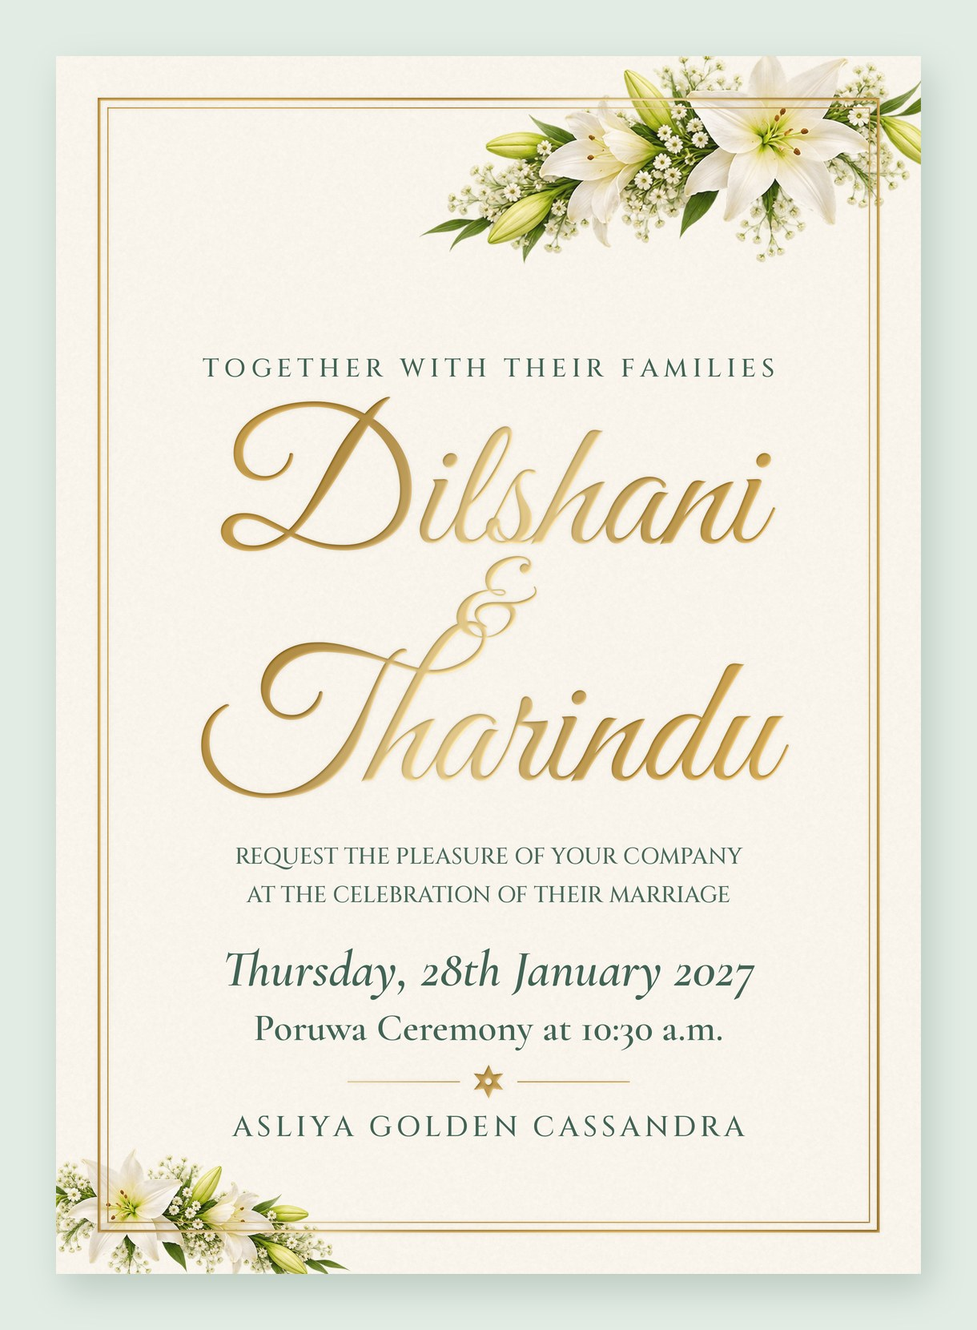
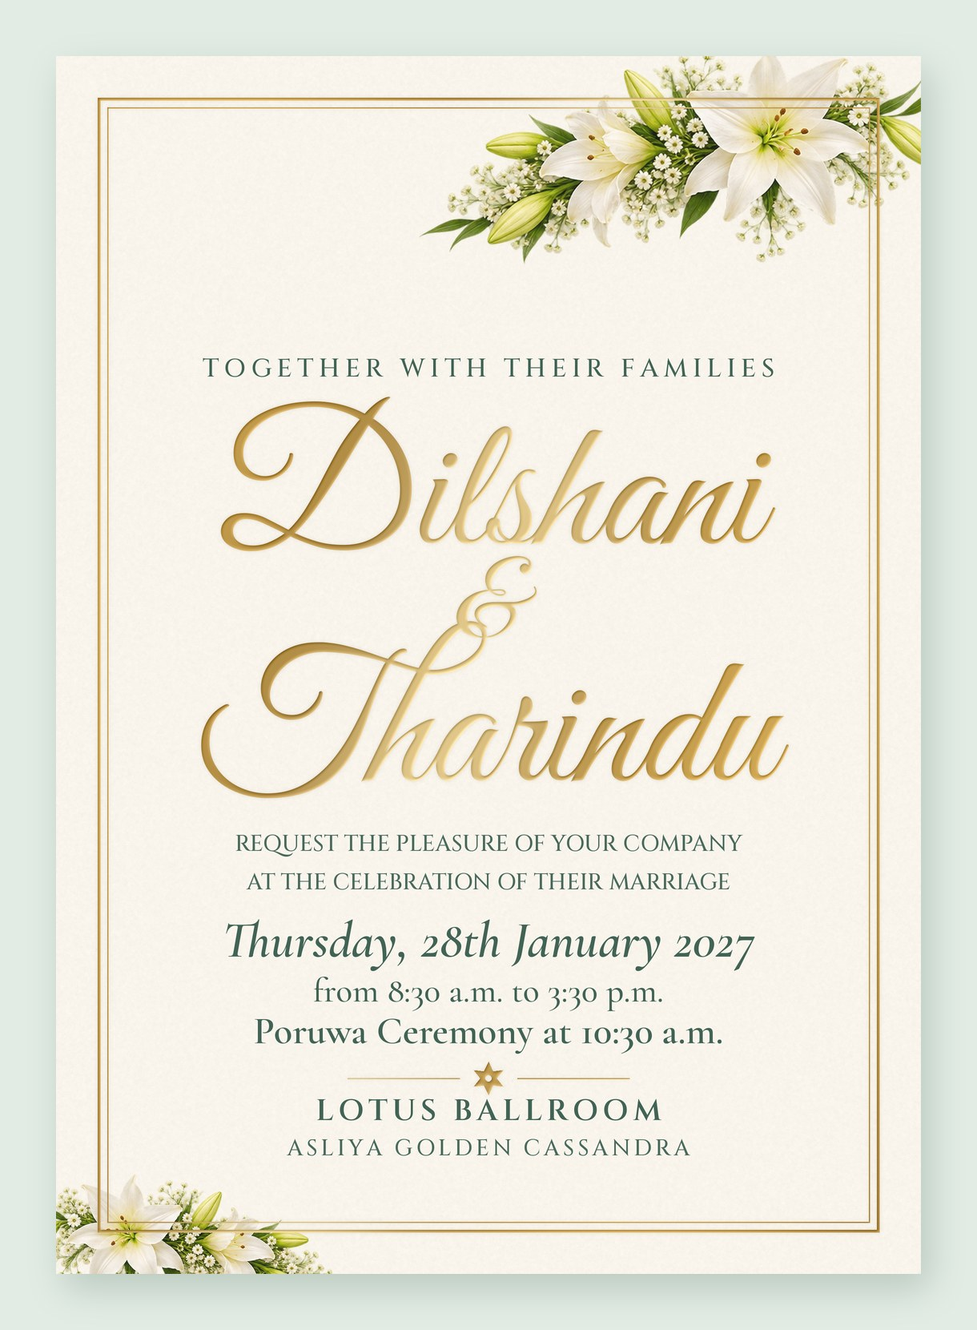
Show the wedding hours and the Lotus Ballroom, and stop sideways scrolling
- 8:30 a.m. to 3:30 p.m. with the Poruwa ceremony at 10:30 a.m., and the
  Lotus Ballroom at Asliya Golden Cassandra, highlighted on the first page,
  the ceremony card and the venue; a bigger date under Save the Date
- Calendar event, reply and share messages, the copied address and the
  keepsake card carry the new hours and the ballroom
- The page is exactly as wide as a phone screen: flowers that reached past
  the edges are clipped and sideways panning is locked, so every section
  stays centred

Claude-Session: https://claude.ai/code/session_01Wd3LywuX5h88iaji7pPKSy

Changed region(s): [[0.218, 0.6145, 0.7787, 0.8602], [0.0311, 0.8602, 0.3426, 0.9831]]

diff --git a/index.html b/index.html
@@ -4,9 +4,9 @@
 <meta charset="utf-8">
 <meta name="viewport" content="width=device-width, initial-scale=1, viewport-fit=cover">
 <meta name="theme-color" content="#eef5ee">
-<meta name="description" content="You are invited to the wedding of Dilshani & Tharindu - Thursday, 28 January 2027, Asliya Golden Cassandra.">
+<meta name="description" content="You are invited to the wedding of Dilshani & Tharindu - Thursday, 28 January 2027, 8:30 a.m. to 3:30 p.m., Lotus Ballroom, Asliya Golden Cassandra.">
 <meta property="og:title" content="The Wedding of Dilshani & Tharindu">
-<meta property="og:description" content="Poruwa Ceremony - Thursday, 28 January 2027 at 10:30 a.m. - Asliya Golden Cassandra">
+<meta property="og:description" content="Thursday, 28 January 2027 · 8:30 a.m. - 3:30 p.m. · Poruwa ceremony at 10:30 a.m. · Lotus Ballroom, Asliya Golden Cassandra">
 <meta property="og:type" content="website">
 <meta property="og:image" content="https://dilshanitharindu.github.io/dilshanitharindu/og.jpg">
 <meta property="og:image:width" content="1200">
@@ -150,7 +150,8 @@ section { position: relative; text-align: center; display: grid; justify-items: 
 .mono text { opacity: 0; transition: opacity 1s ease 1.2s }
 .show .mono .ring { stroke-dashoffset: 0 } .show .mono text { opacity: 1 }
 .hero .bless { font-style: italic; color: var(--jade); font-size: 20px; margin: 0; text-wrap: balance }
-@media (max-width: 380px) { .eyebrow { font-size: 11px; letter-spacing: .2em } .hero .bless { font-size: 18px } }
+@media (max-width: 380px) { .eyebrow { font-size: 11px; letter-spacing: .2em } .hero .bless { font-size: 18px }
+}
 .hero .names { display: grid; justify-items: center; font-size: clamp(64px, 19vw, 92px); margin: 4px 0 }
 .hero .names .amp { font-size: .6em; line-height: .8; margin: -4px 0 }
 .hero .names .of { display: block; font-family: var(--caps); font-weight: 500; font-size: 11px; letter-spacing: .28em; line-height: 1.5; text-transform: uppercase; color: var(--gold); margin: 4px 0 12px }
@@ -186,6 +187,31 @@ section { position: relative; text-align: center; display: grid; justify-items: 
 .frame .bw.tl { left: -74px; top: -104px; width: 56%; --o: 0 0; z-index: 2 } .frame .bw.br { right: -72px; bottom: -100px; width: 56%; --o: 100% 100%; --from: 0 16px; --bd: .5s; z-index: 2 }
 .frame h3 { font-family: var(--caps); font-weight: 600; font-size: 18px; letter-spacing: .16em; color: var(--jade); margin: 6px 0 4px; text-transform: uppercase }
 .row { display: grid; grid-template-columns: 34px 1fr; gap: 12px; align-items: center; text-align: left; width: 100%; max-width: 300px }
+/* highlighted date / time / venue */
+.hl { display: grid; justify-items: center; gap: 2px; width: 100%; max-width: 330px; padding: 14px 14px 16px; border-radius: 14px; text-align: center;
+  background: linear-gradient(180deg, rgba(234,244,237,.95), rgba(255,253,246,.85)); box-shadow: inset 0 0 0 1px rgba(111,158,134,.42), 0 12px 24px -22px rgba(29,56,46,.8) }
+.hl svg { width: 30px; height: 30px; color: var(--gold); margin-bottom: 2px }
+.hl svg .ic { stroke-dasharray: 1; stroke-dashoffset: 1; transition: stroke-dashoffset 1.4s ease var(--d, 0s) }
+.show .hl svg .ic { stroke-dashoffset: 0 }
+.hl > b { font-family: var(--caps); font-weight: 600; font-size: 10px; letter-spacing: .28em; padding-left: .28em; color: var(--celadon-deep); text-transform: uppercase }
+.hl strong { font-family: var(--display); font-weight: 600; font-size: clamp(20px, 6vw, 24px); line-height: 1.25; color: var(--jade); font-variant-numeric: lining-nums }
+.hl > span { font-style: italic; font-size: 18px; color: var(--ink) }
+.poruwa { display: inline-flex; flex-wrap: wrap; justify-content: center; align-items: baseline; gap: 4px 10px; margin: 8px 0 0; padding: 7px 16px; border-radius: 999px;
+  background: linear-gradient(135deg, #fff7e2, #f4e5c0); box-shadow: inset 0 0 0 1px rgba(176,138,56,.6), 0 8px 16px -12px rgba(169,132,50,.9);
+  font-family: var(--caps); font-weight: 600; font-size: 10.5px; letter-spacing: .2em; text-transform: uppercase; color: var(--jade) }
+.poruwa b { font-family: var(--display); font-weight: 700; font-size: 20px; letter-spacing: 0; text-transform: none; color: #8a6a22; font-variant-numeric: lining-nums }
+.hero-when { display: grid; justify-items: center; gap: 6px; width: 100%; max-width: 330px; margin-top: 12px; padding: 14px 14px 16px; border-radius: 16px;
+  background: linear-gradient(180deg, rgba(255,253,246,.94), rgba(236,245,238,.94)); box-shadow: inset 0 0 0 1px rgba(176,138,56,.45), 0 16px 30px -24px rgba(29,56,46,.6) }
+.hw-time { margin: 0; font-family: var(--display); font-weight: 600; font-size: 24px; line-height: 1.2; color: var(--jade); font-variant-numeric: lining-nums }
+.hw-time small { display: block; font-family: var(--caps); font-weight: 600; font-size: 10px; letter-spacing: .28em; padding-left: .28em; color: var(--celadon-deep); text-transform: uppercase }
+.hero-when .poruwa { margin: 2px 0 4px }
+.hw-venue { margin: 0; display: grid; justify-items: center; gap: 1px; font-style: italic; font-size: 17px; color: var(--ink) }
+.hw-venue b { font-style: normal; font-family: var(--caps); font-weight: 600; font-size: 13px; letter-spacing: .2em; padding-left: .2em; color: var(--jade); text-transform: uppercase }
+.date-line { margin: 2px 0 6px; font-family: var(--display); font-weight: 600; font-size: clamp(25px, 7.6vw, 32px); line-height: 1.2; color: var(--jade); text-wrap: balance }
+.venue-card { display: grid; justify-items: center; gap: 2px; width: 100%; max-width: 340px; padding: 16px 16px 18px; border-radius: 16px; text-align: center;
+  background: linear-gradient(180deg, rgba(255,253,246,.95), rgba(236,245,238,.95)); box-shadow: inset 0 0 0 1px rgba(176,138,56,.5), 0 16px 30px -24px rgba(29,56,46,.6) }
+.venue-card > b { font-family: var(--caps); font-weight: 600; font-size: 10px; letter-spacing: .28em; padding-left: .28em; color: var(--celadon-deep); text-transform: uppercase }
+.venue-hall { margin: 0; font-family: var(--script); font-size: clamp(40px, 11.5vw, 50px); line-height: 1.15; color: var(--jade); padding: 0 .2em }
 .row svg { width: 34px; height: 34px; color: var(--gold) }
 .row svg .ic { stroke-dasharray: 1; stroke-dashoffset: 1; transition: stroke-dashoffset 1.4s ease var(--d, 0s) }
 .show .row svg .ic { stroke-dashoffset: 0 }
@@ -198,7 +224,7 @@ section { position: relative; text-align: center; display: grid; justify-items: 
 .wreath-wrap .bw.tl { left: -42%; top: -30%; width: 78%; --o: 0 0; z-index: 1 }
 .wreath-wrap { margin-bottom: 34px }
 .wreath-wrap .bw.swag { left: -27%; bottom: -27%; width: 154%; --o: 50% 100%; --from: 0 14px; --amp: .6deg; --bd: .5s; z-index: 2 }
-.venue-addr { font-family: var(--caps); font-size: 10.5px; letter-spacing: .24em; text-transform: uppercase; color: var(--muted); margin: -6px 0 2px }
+.venue-addr { font-family: var(--caps); font-size: 10px; letter-spacing: .2em; text-transform: uppercase; color: var(--muted); margin: 2px 0 0 }
 .wreath-wrap .bloom { position: absolute; width: 22%; height: auto; opacity: 0; scale: .4; rotate: -40deg; transition: opacity 1s ease, scale 1.2s cubic-bezier(.3,1.5,.5,1), rotate 1.4s ease; transition-delay: var(--bd) }
 .show .wreath-wrap .bloom { opacity: 1; scale: 1; rotate: 0deg }
 .wreath-wrap .map { position: absolute; inset: 11.4%; border-radius: 50%; display: block; -webkit-tap-highlight-color: transparent;
@@ -210,7 +236,7 @@ section { position: relative; text-align: center; display: grid; justify-items: 
 @keyframes ping { 0% { scale: .25; opacity: .9 } 80%, 100% { scale: 1.7; opacity: 0 } }
 .wreath-wrap .map:active { scale: .98 }
 .map-credit { font-family: var(--caps); font-size: 8.5px; letter-spacing: .2em; text-transform: uppercase; color: var(--muted); opacity: .75; margin: -8px 0 0 }
-.venue-name { font-family: var(--display); font-weight: 600; font-size: 28px; color: var(--jade); margin: 0 }
+.venue-name { font-family: var(--display); font-weight: 600; font-size: clamp(22px, 6.4vw, 26px); color: var(--jade); margin: 0 }
 
 /* animated buttons */
 .btn { position: relative; overflow: hidden; isolation: isolate; display: inline-flex; align-items: center; justify-content: center; gap: 10px; padding: 14px 26px; border-radius: 999px; cursor: pointer; text-decoration: none;
@@ -281,7 +307,12 @@ section { position: relative; text-align: center; display: grid; justify-items: 
 .cal-alt a { color: var(--jade); text-underline-offset: 3px }
 
 /* ---- light the lamp ---- */
-body { overflow-x: hidden } @supports (overflow: clip) { body { overflow-x: clip } }
+/* no sideways scrolling on phones: the page is exactly as wide as the screen and decorations are clipped at its edges */
+html, body { max-width: 100%; overflow-x: hidden; overscroll-behavior-x: none }
+@supports (overflow: clip) { html, body { overflow-x: clip } }
+.page { position: relative; width: 100%; overflow-x: hidden }
+@supports (overflow: clip) { .page { overflow-x: clip } }
+html { touch-action: pan-y pinch-zoom }
 #lamp::before { content: ""; position: absolute; left: 50%; top: 58%; width: min(100vw, 900px); aspect-ratio: 1; translate: -50% -50%; border-radius: 50%; pointer-events: none; z-index: -1;
   background: radial-gradient(closest-side, rgba(255,214,150,.5), rgba(255,206,140,.18) 46%, rgba(255,206,140,0) 72%); opacity: var(--lit, 0); transition: opacity 1.4s ease }
 .lamp-stage { display: block; padding: 0; border: 0; background: none; font: inherit; color: inherit; -webkit-appearance: none; appearance: none; position: relative; width: min(66vw, 280px); aspect-ratio: 720 / 1358; margin: 0 0 34px; cursor: pointer; outline: none; -webkit-tap-highlight-color: transparent; touch-action: manipulation }
@@ -336,6 +367,12 @@ body { overflow-x: hidden } @supports (overflow: clip) { body { overflow-x: clip
 .lamp-flowers { position: absolute; left: -34%; right: -34%; bottom: -10%; z-index: 2; pointer-events: none }
 .lamp-stage .lamp-flowers img { position: static; display: block; width: 100%; height: auto; inset: auto }
 
+/* small phones: a little more room inside the cards so the Poruwa time stays on one line */
+@media (max-width: 380px) {
+  .poruwa { letter-spacing: .12em; padding: 7px 12px; gap: 4px 8px } .poruwa b { font-size: 18px }
+  .frame { padding-left: 14px; padding-right: 14px } .hl { padding-left: 8px; padding-right: 8px }
+}
+
 @media (prefers-reduced-motion: reduce) {
   html { scroll-behavior: auto }
   *, *::before, *::after { animation: none !important; transition: none !important }
@@ -365,6 +402,7 @@ body { overflow-x: hidden } @supports (overflow: clip) { body { overflow-x: clip
 
 </div>
 
+<div class="page">
 <main>
   <section class="hero reveal" id="top">
     <div class="bw garland" aria-hidden="true"><img src="assets/lily_garland.webp" data-img="garland" decoding="async" alt=""></div>
@@ -377,6 +415,11 @@ body { overflow-x: hidden } @supports (overflow: clip) { body { overflow-x: clip
     <p class="lede ln">request the honour of your presence as they begin their life together</p>
     <div class="datebar ln" aria-label="Thursday 28 January 2027"><span>Thursday</span><strong>28</strong><span>January</span></div>
     <p class="yr ln">2027</p>
+    <div class="hero-when ln">
+      <p class="hw-time"><small>From</small>8:30 a.m. &ndash; 3:30 p.m.</p>
+      <p class="poruwa">Poruwa Ceremony <b>10:30 a.m.</b></p>
+      <p class="hw-venue"><b>Lotus Ballroom</b>Asliya Golden Cassandra</p>
+    </div>
     <a class="cue ln" href="#date">Scroll<i></i></a>
     <div class="bw bl" aria-hidden="true"><img src="assets/lily_corner_bl.webp" data-img="cbl" loading="lazy" decoding="async" alt=""></div><div class="bw br" aria-hidden="true"><img src="assets/lily_corner_br.webp" data-img="cbr" loading="lazy" decoding="async" alt=""></div>
   </section>
@@ -385,7 +428,7 @@ body { overflow-x: hidden } @supports (overflow: clip) { body { overflow-x: clip
     <div class="blossom-rule ln" aria-hidden="true"><img src="assets/lily_small.webp" data-img="small" decoding="async" alt=""></div>
     <p class="eyebrow ln">The big day</p>
     <h2 class="script-h ln">Save the Date</h2>
-    <p class="lede ln">Thursday, 28th January 2027</p>
+    <p class="date-line ln">Thursday, 28th January 2027</p>
     <div class="countdown ln" role="timer" aria-live="off">
       <div><strong id="cdD">--</strong><small>Days</small></div>
       <div><strong id="cdH">--</strong><small>Hours</small></div>
@@ -401,11 +444,10 @@ body { overflow-x: hidden } @supports (overflow: clip) { body { overflow-x: clip
       <div class="bw br" aria-hidden="true"><img src="assets/lily_corner_br.webp" data-img="cbr" loading="lazy" decoding="async" alt=""></div>
       <p class="eyebrow ln">Celebrate with us</p>
       <h2 class="script-h ln">The Ceremony</h2>
-      <h3 class="ln">Poruwa Ceremony</h3>
-      <div class="row ln"><svg viewBox="0 0 34 34" fill="none" stroke="currentColor" stroke-width="1.4" stroke-linecap="round" aria-hidden="true"><path class="ic" pathLength="1" d="M6 9h22v19H6zM6 14h22M12 5v6M22 5v6"/><path class="ic" pathLength="1" style="--d:.4s" d="M12 19h2M16 19h2M20 19h2M12 23h2M16 23h2"/></svg><div><b>Date</b><span>Thursday, 28 January 2027</span></div></div>
-      <div class="row ln"><svg viewBox="0 0 34 34" fill="none" stroke="currentColor" stroke-width="1.4" stroke-linecap="round" aria-hidden="true"><circle class="ic" pathLength="1" cx="17" cy="17" r="11.5"/><path class="ic" pathLength="1" style="--d:.5s" d="M17 10v7l5 3"/></svg><div><b>Auspicious time</b><span>10:30 in the morning</span></div></div>
-      <div class="row ln"><svg viewBox="0 0 34 34" fill="none" stroke="currentColor" stroke-width="1.4" stroke-linecap="round" aria-hidden="true"><path class="ic" pathLength="1" d="M17 30s-9-8.5-9-15a9 9 0 0 1 18 0c0 6.5-9 15-9 15z"/><circle class="ic" pathLength="1" style="--d:.5s" cx="17" cy="15" r="3.2"/></svg><div><b>Venue</b><span>Asliya Golden Cassandra</span></div></div>
-      <div class="row ln" id="dressRow" hidden><svg viewBox="0 0 34 34" fill="none" stroke="currentColor" stroke-width="1.4" stroke-linecap="round" aria-hidden="true"><path class="ic" pathLength="1" d="M12 5l5 4 5-4 7 5-4 5v14H9V15l-4-5z"/></svg><div><b>Dress code</b><span id="dressCode"></span></div></div>
+      <div class="hl ln"><svg viewBox="0 0 34 34" fill="none" stroke="currentColor" stroke-width="1.4" stroke-linecap="round" aria-hidden="true"><path class="ic" pathLength="1" d="M6 9h22v19H6zM6 14h22M12 5v6M22 5v6"/><path class="ic" pathLength="1" style="--d:.4s" d="M12 19h2M16 19h2M20 19h2M12 23h2M16 23h2"/></svg><b>Date</b><strong>Thursday, 28 January 2027</strong></div>
+      <div class="hl ln"><svg viewBox="0 0 34 34" fill="none" stroke="currentColor" stroke-width="1.4" stroke-linecap="round" aria-hidden="true"><circle class="ic" pathLength="1" cx="17" cy="17" r="11.5"/><path class="ic" pathLength="1" style="--d:.5s" d="M17 10v7l5 3"/></svg><b>Time</b><strong>8:30 a.m. &ndash; 3:30 p.m.</strong><p class="poruwa">Poruwa Ceremony <b>10:30 a.m.</b></p></div>
+      <div class="hl ln"><svg viewBox="0 0 34 34" fill="none" stroke="currentColor" stroke-width="1.4" stroke-linecap="round" aria-hidden="true"><path class="ic" pathLength="1" d="M17 30s-9-8.5-9-15a9 9 0 0 1 18 0c0 6.5-9 15-9 15z"/><circle class="ic" pathLength="1" style="--d:.5s" cx="17" cy="15" r="3.2"/></svg><b>Venue</b><strong>Lotus Ballroom</strong><span>Asliya Golden Cassandra</span></div>
+      <div class="hl ln" id="dressRow" hidden><svg viewBox="0 0 34 34" fill="none" stroke="currentColor" stroke-width="1.4" stroke-linecap="round" aria-hidden="true"><path class="ic" pathLength="1" d="M12 5l5 4 5-4 7 5-4 5v14H9V15l-4-5z"/></svg><b>Dress code</b><strong id="dressCode"></strong></div>
       <span class="glare" aria-hidden="true"></span>
       <a class="btn ln" id="calLink" target="_blank" rel="noopener"><svg viewBox="0 0 16 16" fill="none" stroke="currentColor" stroke-width="1.4" aria-hidden="true"><rect x="2" y="3" width="12" height="11" rx="1.5"/><path d="M2 6.5h12M5 1.5v3M11 1.5v3M8 8.5v3.5M6.2 10.2h3.6"/></svg>Add to Calendar</a>
       <p class="cal-alt ln" id="calAlt">or <a id="icsLink">Apple / Outlook calendar</a></p>
@@ -417,13 +459,17 @@ body { overflow-x: hidden } @supports (overflow: clip) { body { overflow-x: clip
     <h2 class="script-h ln">The Venue</h2>
     <div class="wreath-wrap ln">
       <svg class="ring" viewBox="-50 -50 100 100" aria-hidden="true"><circle pathLength="1" r="48" fill="rgba(255,253,246,.7)" stroke="#b08a38" stroke-width=".6"/><circle pathLength="1" r="45" fill="none" stroke="#d6bc76" stroke-width=".35"/></svg>
-      <a class="map" id="mapCircle" target="_blank" rel="noopener" aria-label="Open Asliya Golden Cassandra in Google Maps"><img data-img="map" alt="Map showing Asliya Golden Cassandra on Dambokka-Katupitiya Road"><span class="ping" aria-hidden="true"></span></a>
+      <a class="map" id="mapCircle" target="_blank" rel="noopener" aria-label="Open Asliya Golden Cassandra (Lotus Ballroom) in Google Maps"><img data-img="map" alt="Map showing Asliya Golden Cassandra on Dambokka-Katupitiya Road"><span class="ping" aria-hidden="true"></span></a>
       <div class="bw tl" aria-hidden="true"><img src="assets/lily_corner_tl.webp" data-img="ctl" loading="lazy" decoding="async" alt=""></div>
       <div class="bw swag" aria-hidden="true"><img src="assets/lily_garland.webp" data-img="garland" decoding="async" alt=""></div>
     </div>
     <p class="map-credit ln">Map © Google · tap to open</p>
-    <p class="venue-name ln">Asliya Golden Cassandra</p>
-    <p class="venue-addr ln">Dambokka &ndash; Katupitiya Road (B87)</p>
+    <div class="venue-card ln">
+      <b>The venue</b>
+      <p class="venue-hall">Lotus Ballroom</p>
+      <p class="venue-name">Asliya Golden Cassandra</p>
+      <p class="venue-addr">Dambokka &ndash; Katupitiya Road (B87)</p>
+    </div>
     <p class="lede ln">We would be delighted to welcome you there.</p>
     <a class="btn solid ln" id="mapLink" target="_blank" rel="noopener"><svg viewBox="0 0 16 16" fill="none" stroke="currentColor" stroke-width="1.4" aria-hidden="true"><path d="M8 14.5s-4.6-4.3-4.6-7.6a4.6 4.6 0 0 1 9.2 0c0 3.3-4.6 7.6-4.6 7.6z"/><circle cx="8" cy="6.9" r="1.6"/></svg>Get Directions</a>
     <button class="linkish ln" id="copyAddr" type="button">Copy the venue address</button>
@@ -484,6 +530,7 @@ body { overflow-x: hidden } @supports (overflow: clip) { body { overflow-x: clip
     <div class="bw bottom" aria-hidden="true"><img src="assets/lily_long.webp" data-img="long" loading="lazy" decoding="async" alt=""></div>
   </section>
 </main>
+</div>
 
 <div class="sheet" id="sheet" role="dialog" aria-modal="true" aria-labelledby="sheetTitle" hidden>
   <div class="sheet-card">
@@ -510,8 +557,10 @@ body { overflow-x: hidden } @supports (overflow: clip) { body { overflow-x: clip
 (function () {
   /* ---------------- details (edit here) ---------------- */
   const WEDDING = {
-    startISO: '2027-01-28T10:30:00+05:30',
-    endISO: '2027-01-28T13:30:00+05:30',
+    startISO: '2027-01-28T08:30:00+05:30',     // the celebration: 8:30 a.m. to 3:30 p.m.
+    endISO: '2027-01-28T15:30:00+05:30',
+    poruwa: '10:30 a.m.',                      // the Poruwa ceremony
+    hall: 'Lotus Ballroom',
     venue: 'Asliya Golden Cassandra',
     address: 'Dambokka – Katupitiya Road (B87)',
     rsvpPhone: '',               // e.g. '+94771234567' – replies then go straight to this WhatsApp number
@@ -564,7 +613,7 @@ body { overflow-x: hidden } @supports (overflow: clip) { body { overflow-x: clip
   if (WEDDING.dressCode) { $('#dressRow').hidden = false; $('#dressCode').textContent = WEDDING.dressCode; }
   if (WEDDING.contacts.length) { const box = $('#contacts'); box.hidden = false; WEDDING.contacts.forEach(c => { const a = document.createElement('a'); a.className = 'btn'; a.href = 'tel:' + c.phone.replace(/\s+/g, ''); a.textContent = 'Call ' + c.name; box.appendChild(a); }); }
   const gcal = d => new Date(d).toISOString().replace(/[-:]/g, '').replace(/\.\d{3}/, '');
-  $('#calLink').href = 'https://calendar.google.com/calendar/render?action=TEMPLATE&text=' + encodeURIComponent('Dilshani & Tharindu – Poruwa Ceremony') + '&dates=' + gcal(WEDDING.startISO) + '/' + gcal(WEDDING.endISO) + '&details=' + encodeURIComponent('With the blessings of the Noble Triple Gem, you are invited to the wedding of Dilshani & Tharindu.') + '&location=' + encodeURIComponent(WEDDING.venue);
+  $('#calLink').href = 'https://calendar.google.com/calendar/render?action=TEMPLATE&text=' + encodeURIComponent('Wedding of Dilshani & Tharindu') + '&dates=' + gcal(WEDDING.startISO) + '/' + gcal(WEDDING.endISO) + '&details=' + encodeURIComponent('8:30 a.m. – 3:30 p.m. · Poruwa ceremony at ' + WEDDING.poruwa + '. With the blessings of the Noble Triple Gem, you are invited to the wedding of Dilshani & Tharindu.') + '&location=' + encodeURIComponent(WEDDING.hall + ', ' + WEDDING.venue + ', ' + WEDDING.address);
   (() => { const m = $('#mapCircle'); // safety net: once the map has been on screen a moment, make sure it shows
     if (!('IntersectionObserver' in window)) return m.classList.add('on');
     const mo = new IntersectionObserver(es => { if (es.some(e => e.isIntersecting)) { mo.disconnect(); setTimeout(() => m.classList.add('on'), 2600); } });
@@ -574,7 +623,7 @@ body { overflow-x: hidden } @supports (overflow: clip) { body { overflow-x: clip
   function toast(msg) { const t = $('#toast'); t.textContent = msg; t.classList.add('show'); clearTimeout(toast.h); toast.h = setTimeout(() => t.classList.remove('show'), 2400); }
   const buzz = p => { try { navigator.vibrate && navigator.vibrate(p) } catch (e) {} };
   $('#copyAddr').addEventListener('click', async () => {
-    const t = WEDDING.venue + ', ' + WEDDING.address;
+    const t = WEDDING.hall + ', ' + WEDDING.venue + ', ' + WEDDING.address;
     try { await navigator.clipboard.writeText(t); toast('Venue address copied'); } catch (e) { toast(t); }
   });
   // keep the card: the finished invitation as a picture (opens in a new tab inside previews, downloads on the real site)
@@ -597,7 +646,7 @@ body { overflow-x: hidden } @supports (overflow: clip) { body { overflow-x: clip
 
   const BASE = WEDDING.shareUrl || ((() => { try { return window.top === window.self } catch (e) { return false } })() && /^https?:/.test(location.href) ? location.href.split(/[?#]/)[0] : '');
   const inviteLink = name => BASE + (name ? '?to=' + encodeURIComponent(name) : '');
-  const inviteText = name => (name ? 'Dear ' + name + ', you' : 'You') + ' are warmly invited to the wedding of Dilshani & Tharindu – Thursday, 28 January 2027 at Asliya Golden Cassandra. Open your invitation: ';
+  const inviteText = name => (name ? 'Dear ' + name + ', you' : 'You') + ' are warmly invited to the wedding of Dilshani & Tharindu – Thursday, 28 January 2027, 8:30 a.m. – 3:30 p.m. (Poruwa ceremony at 10:30 a.m.), Lotus Ballroom, Asliya Golden Cassandra. Open your invitation: ';
   if (BASE) {
     const sheet = $('#sheet'), gn = $('#guestName');
     const sync = () => { const n = gn.value.replace(/\s+/g, ' ').trim(); $('#waShare').href = 'https://wa.me/?text=' + encodeURIComponent(inviteText(n) + inviteLink(n)); };
@@ -633,8 +682,8 @@ body { overflow-x: hidden } @supports (overflow: clip) { body { overflow-x: clip
     const z = d => new Date(d).toISOString().replace(/[-:]/g, '').replace(/\.\d{3}/, '');
     const ics = ['BEGIN:VCALENDAR', 'VERSION:2.0', 'PRODID:-//Dilshani and Tharindu//Wedding//EN', 'CALSCALE:GREGORIAN', 'BEGIN:VEVENT',
       'UID:dilshani-tharindu-20270128@invitation', 'DTSTAMP:' + z(Date.now()), 'DTSTART:' + z(WEDDING.startISO), 'DTEND:' + z(WEDDING.endISO),
-      'SUMMARY:Dilshani & Tharindu – Poruwa Ceremony', 'LOCATION:' + WEDDING.venue,
-      'DESCRIPTION:With the blessings of the Noble Triple Gem\\, you are invited to the wedding of Dilshani & Tharindu.',
+      'SUMMARY:Wedding of Dilshani & Tharindu', 'LOCATION:' + [WEDDING.hall, WEDDING.venue, WEDDING.address].join('\\, '),
+      'DESCRIPTION:8:30 a.m. – 3:30 p.m. · Poruwa ceremony at ' + WEDDING.poruwa + '. With the blessings of the Noble Triple Gem\\, you are invited to the wedding of Dilshani & Tharindu.',
       'BEGIN:VALARM', 'TRIGGER:-P1D', 'ACTION:DISPLAY', 'DESCRIPTION:Dilshani & Tharindu – the wedding is tomorrow', 'END:VALARM',
       'END:VEVENT', 'END:VCALENDAR'].join('\r\n');
     // a calendar file only downloads on the real site; inside a preview frame the line is left out
@@ -744,7 +793,7 @@ body { overflow-x: hidden } @supports (overflow: clip) { body { overflow-x: clip
   function rsvpText(v) {
     const n = rName.value.replace(/\s+/g, ' ').trim(), w = rWish.value.trim(), c = R.count;
     let t = 'Dear Dilshani & Tharindu,\n';
-    if (v === 'yes') t += (n ? n + ' joyfully accepts' : 'I joyfully accept') + ' your invitation to the Poruwa Ceremony on Thursday, 28 January 2027 at ' + WEDDING.venue + '.' + (c > 1 ? ' We will be ' + c + ' guests.' : '');
+    if (v === 'yes') t += (n ? n + ' joyfully accepts' : 'I joyfully accept') + ' your invitation to the wedding on Thursday, 28 January 2027 (Poruwa ceremony at ' + WEDDING.poruwa + ') at the ' + WEDDING.hall + ', ' + WEDDING.venue + '.' + (c > 1 ? ' We will be ' + c + ' guests.' : '');
     else t += (n ? n + ' regretfully cannot' : 'I regretfully cannot') + ' be with you on Thursday, 28 January 2027' + (n ? ', but sends' : ', but send') + ' warm wishes for your wedding day.';
     if (w) t += '\n\n' + w;
     return t;
